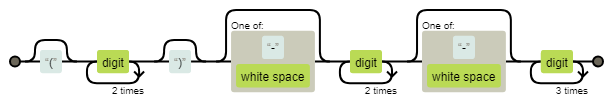
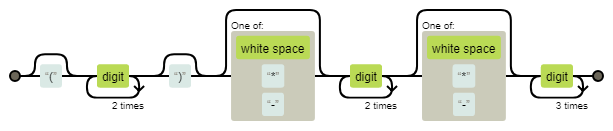
Validate and format phone numbers fixed for *

diff --git a/projects/state-mach-regex/phone/phone.js b/projects/state-mach-regex/phone/phone.js
@@ -20,11 +20,11 @@ rl.on('line', function (line) {
     // If match found, print number with no spaces, parens, or dashes
 
     // Else print that no number was found
-    const regex = /\(?\d{3}\)?[-\s]?\d{3}[-\s]?\d{4}/g;
+    const regex = /\(?\d{3}\)?[\s*-]?\d{3}[\s*-]?\d{4}/g;
 
     const phones = line.match(regex);
     if(phones){
-      let phone = phones[0].replace(/[\()-\s]/g, '')
+      let phone = phones[0].replace(/[\()\s*-]/g, '')
       console.log('Area code: ', phone.slice(0, 3))
       console.log('Prefix:    ',phone.slice(3, 6))
       console.log('Suffix:    ',phone.slice(6, 10))
